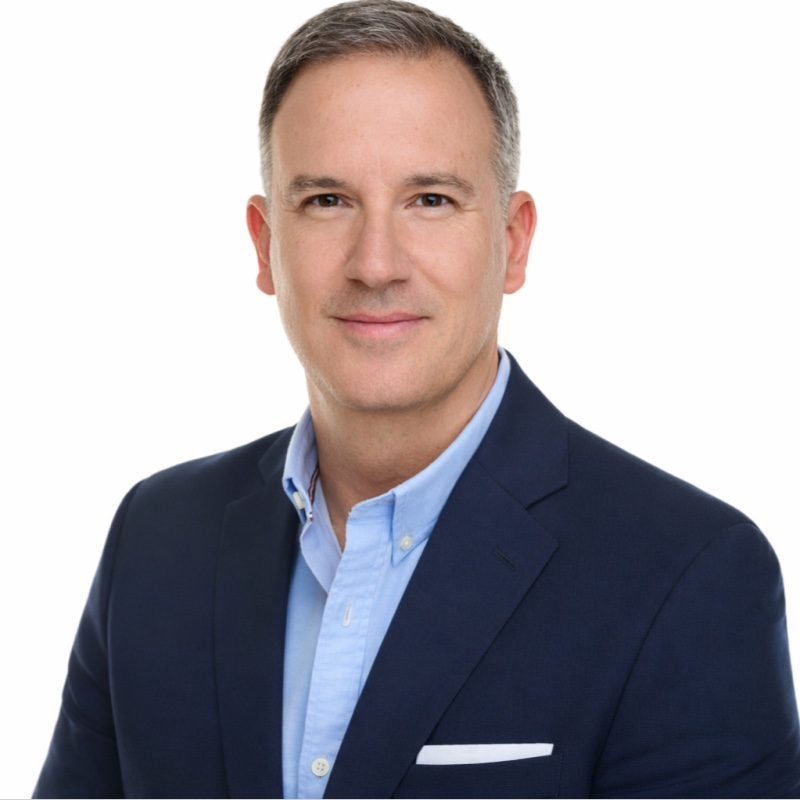
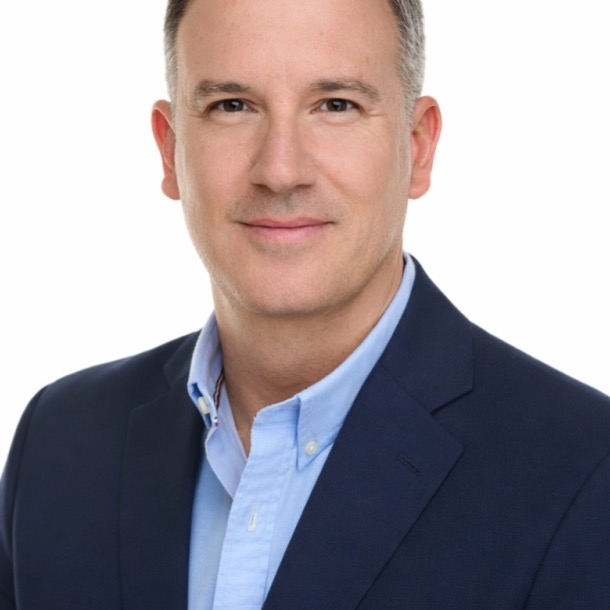
Add Jeremy's headshot, match the pair, wire real LinkedIn URLs
Jeremy's source is a tall portrait, so Person gains an objectPosition
prop — a centred square crop would have taken him chin-to-waistband.
His photo is maximally zoomed out already at full frame width, so Ran's
was cropped in to 610px instead; side by side the two now sit at
comparable head size rather than one close and one distant.

Both photos are filtered to grayscale so the pair reads as one
commission rather than two shoots. Drop the filter in Person to restore
Ran's colour.

Also removed a comment I had put inside a JSX opening tag, where it is
not reliably parseable — there is no local build here to have caught it.

diff --git a/components/AboutPage.jsx b/components/AboutPage.jsx
@@ -4,14 +4,24 @@ import {
   VideoHeader, Eyebrow, PRIMARY, SECONDARY, SECONDARY_MID, SECONDARY_DEEP, SLATE, MUTED, INK, BG
 } from './ui';
 
-function Person({ name, title, bio, photo, linkedin, accent = SECONDARY_DEEP }) {
+function Person({ name, title, bio, photo, linkedin, accent = SECONDARY_DEEP, objectPosition = 'center' }) {
+  // objectPosition pulls the crop window up the frame: a tall portrait in a
+  // square card would otherwise be cropped chin-to-waistband. grayscale(1) is
+  // on both photos so the pair reads as one commission rather than two shoots
+  // — drop the filter to restore Ran's colour.
   return (
     <div>
       <div
         className="relative rounded-2xl overflow-hidden mb-6"
         style={{ aspectRatio: '1 / 1', backgroundColor: '#EDE8E0' }}
       >
-        <img src={photo} alt={name} className="w-full h-full object-cover" loading="lazy" />
+        <img
+          src={photo}
+          alt={name}
+          className="w-full h-full object-cover"
+          loading="lazy"
+          style={{ objectPosition, filter: 'grayscale(1)' }}
+        />
       </div>
 
       <div className="flex items-center gap-2.5 mb-1">
@@ -103,7 +113,7 @@ export default function AboutPage({ onContactClick, onNavigate }) {
               name="Ran Gimeno"
               title="Host · MBA, AIF®"
               photo="/images/team/ran.jpg"
-              linkedin="https://www.linkedin.com/"
+              linkedin="https://www.linkedin.com/in/rangimeno/"
               accent={PRIMARY}
               bio={[
                 '[One or two sentences of verified background — firms, sectors, and the capital work he is known for.]',
@@ -113,8 +123,9 @@ export default function AboutPage({ onContactClick, onNavigate }) {
             <Person
               name="Jeremy Roseberry"
               title="Host"
-              photo="/images/team/jeremy.svg"
-              linkedin="https://www.linkedin.com/"
+              photo="/images/team/jeremy.jpg"
+              objectPosition="center 6%"
+              linkedin="https://www.linkedin.com/in/jeremy-roseberry-8264891a1/"
               accent={SECONDARY_DEEP}
               bio={[
                 '[One or two sentences of verified background — firms, sectors, and the capital work he is known for.]',

diff --git a/components/ui.jsx b/components/ui.jsx
@@ -430,9 +430,9 @@ export function HighlightGrid({ eyebrow, title, intro, cards, tone = 'primary' }
               className="rounded-xl p-8 transition-transform hover:-translate-y-1"
               style={{
                 backgroundColor: i === 0 ? fill : '#FFFFFF',
-                // The filled card is navy on a teal ground — darker than what
-                // it sits on, so it needs the gold hairline to read as a card
-                // rather than a hole.
+                // The filled card is espresso on a near-black ground — barely
+                // lighter than what it sits on, so it needs the gold hairline
+                // to read as a card rather than a hole.
                 border: i === 0 ? `1px solid ${GOLD}55` : 'none'
               }}
             >
